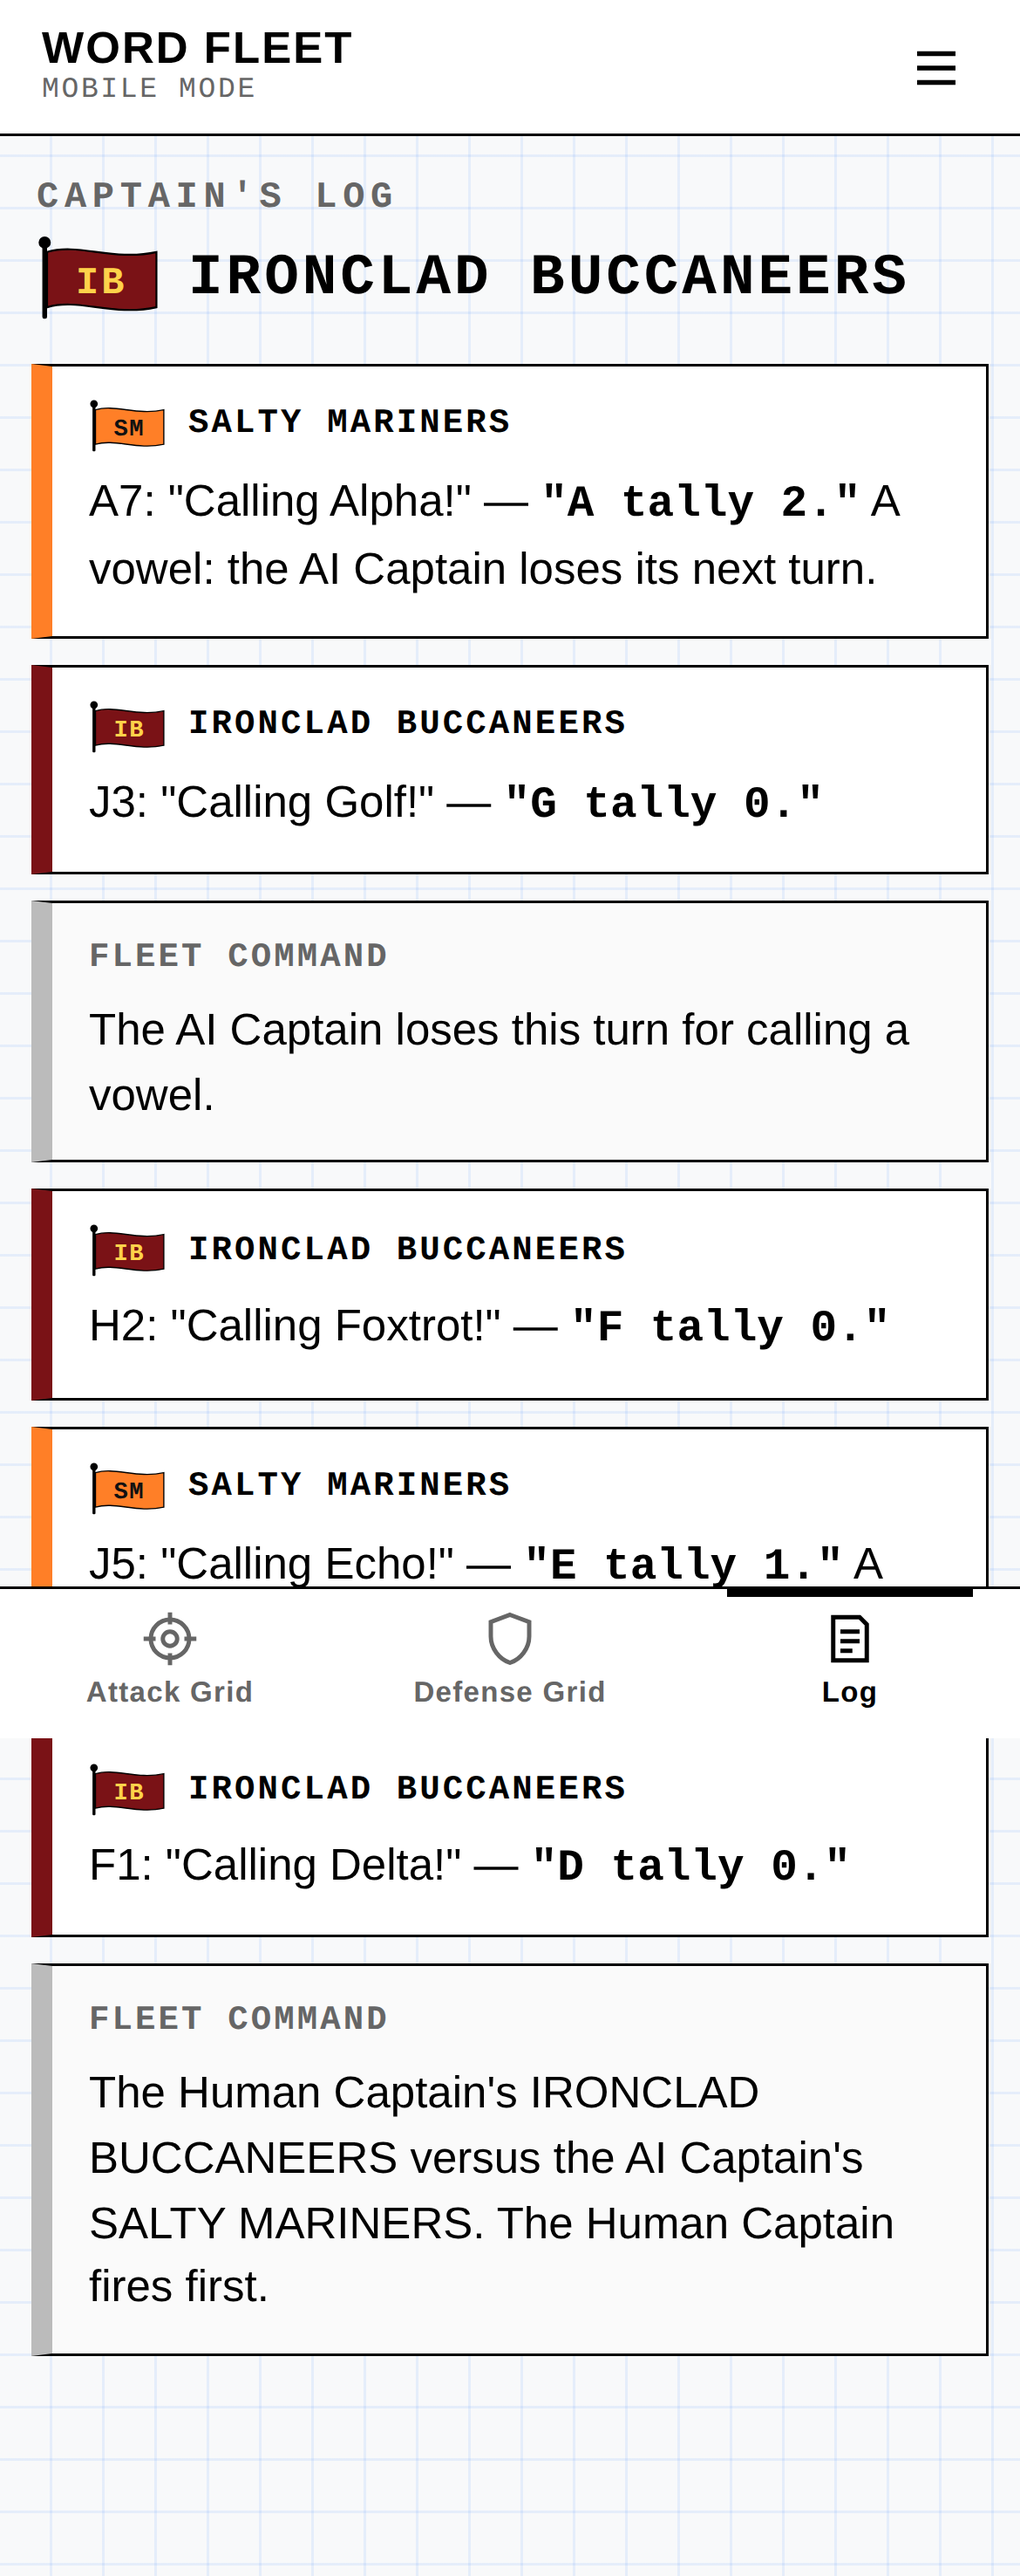
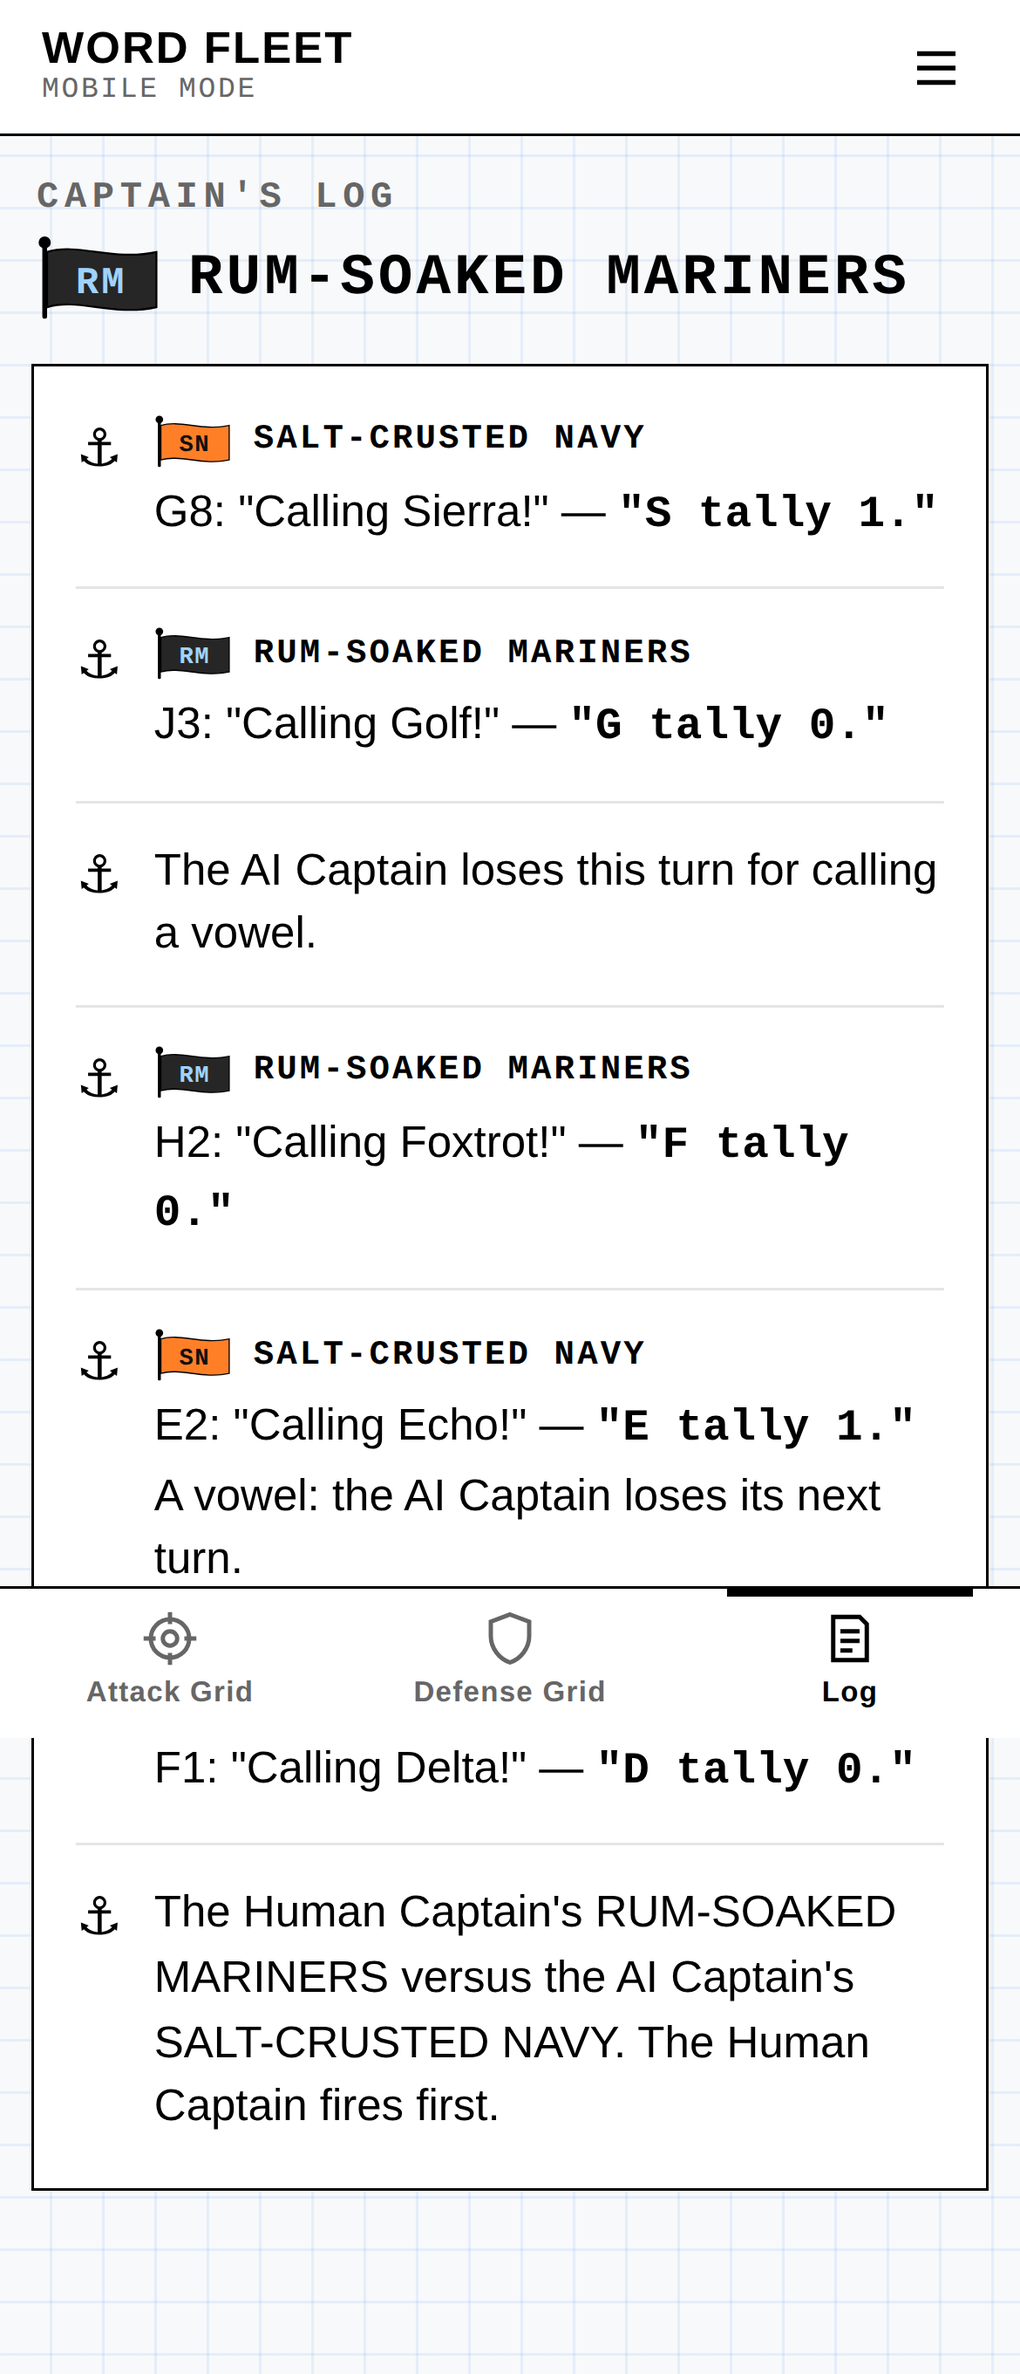
Log: plain list with an anchor bullet on every entry, no Fleet Command label, newest on top
Claude-Session: https://claude.ai/code/session_013sUGAAEC45a1EJCrQWVj9Q

diff --git a/mobile/app.js b/mobile/app.js
@@ -796,20 +796,19 @@
     return h;
   }
 
-  // 008-MOBILE-LOG: each entry is a card flying its side's flag. Yours in your fleet colors,
-  // the AI Captain's in Signal Orange & Black, Fleet Command plain. Newest first.
+  // 008-MOBILE-LOG: newest first, an anchor bullet on every entry. Your moves and the AI Captain's
+  // carry that side's flag and fleet name; Fleet Command notices are just the text.
   function renderLog() {
     renderFleetTags();
     var mine = schemeOf(S.colors);
     $('log').innerHTML = S.log.length ? S.log.map(function (l) {
-      var side = l.who === 'foe' ? 'is-foe' : l.who === 'me' ? 'is-me' : 'is-command';
-      var flag = l.who === 'foe' ? flagSvg(FOE_SCHEME, fleetInitials(S.foe.name) || 'AI')
-        : l.who === 'me' ? flagSvg(mine, fleetInitials(S.me.name) || 'WF') : '';
-      var who = l.who === 'foe' ? esc(S.foe.name) : l.who === 'me' ? esc(S.me.name) : 'Fleet Command';   // the flag says whose side
-      return '<div class="log-item ' + side + '"><div class="log-who">' + (flag ? '<span class="log-flag">' + flag + '</span>' : '') +
-        '<span>' + who + '</span></div><div class="log-text">' + l.text + '</div></div>';
+      var who = l.who === 'foe' ? '<span class="log-flag">' + flagSvg(FOE_SCHEME, fleetInitials(S.foe.name) || 'AI') + '</span>' + esc(S.foe.name)
+        : l.who === 'me' ? '<span class="log-flag">' + flagSvg(mine, fleetInitials(S.me.name) || 'WF') + '</span>' + esc(S.me.name) : '';
+      return '<div class="log-item"><span class="log-anchor" aria-hidden="true">\u2693\uFE0E</span><div class="log-body">' +
+        (who ? '<div class="log-who">' + who + '</div>' : '') + '<div class="log-text">' + l.text + '</div></div></div>';
     }).join('') : '<p class="log-empty">No letters called yet.</p>';
   }
+
 
 
   function switchTab(tab) {

diff --git a/mobile/app.css b/mobile/app.css
@@ -571,3 +571,12 @@ button.mf { font: inherit; color: var(--ink); width: 100%; padding: 3px 0 2px; c
 .log-flag svg { display: block; width: 100%; height: auto; }
 .log-text strong, .log-text b { font-family: var(--mono); }
 .log-empty { font-size: 17px; color: var(--muted); font-style: italic; }
+
+/* 008-MOBILE-LOG, simplified: a plain list, an anchor bullet on every entry, newest on top */
+.log { display: block; background: var(--paper); border: 1px solid var(--ink); padding: 4px 16px; }
+.log-item { display: flex; gap: 12px; align-items: flex-start; background: none; border: none; border-bottom: 1px solid var(--faint); padding: 14px 0; }
+.log-item:last-child { border-bottom: none; }
+.log-anchor { flex-shrink: 0; font-size: 20px; line-height: 1.3; color: var(--ink); }
+.log-body { flex: 1; min-width: 0; }
+.log-who { margin-bottom: 4px; }
+.log-anchor { font-family: "Segoe UI Symbol", "Noto Sans Symbols", "DejaVu Sans", sans-serif; font-variant-emoji: text; }

diff --git a/mobile/index.html b/mobile/index.html
@@ -18,7 +18,7 @@
   <link rel="preconnect" href="https://fonts.gstatic.com" crossorigin>
   <link href="https://fonts.googleapis.com/css2?family=Courier+Prime:wght@400;700&family=Inter:wght@400;500;600;700&display=swap" rel="stylesheet">
   <!-- Bump ?v= on every release (and CACHE in sw.js) so a new page never runs old code. -->
-  <link rel="stylesheet" href="app.css?v=89">
+  <link rel="stylesheet" href="app.css?v=91">
 </head>
 <body>
 
@@ -234,7 +234,7 @@
 
 <div class="toast" id="toast" hidden></div>
 
-<script src="audio.js?v=89"></script>
-<script src="app.js?v=89"></script>
+<script src="audio.js?v=91"></script>
+<script src="app.js?v=91"></script>
 </body>
 </html>

diff --git a/mobile/sw.js b/mobile/sw.js
@@ -1,11 +1,11 @@
 /* Word Fleet service worker: the whole game works offline once loaded. */
-var CACHE = 'wordfleet-v89';
+var CACHE = 'wordfleet-v91';
 var SHELL = [
   './',
   'index.html',
-  'app.css?v=89',
-  'app.js?v=89',
-  'audio.js?v=89',
+  'app.css?v=91',
+  'app.js?v=91',
+  'audio.js?v=91',
   'manifest.webmanifest',
   'icons/icon-180.png',
   'icons/icon-192.png',

diff --git a/mobile/screens/README.md b/mobile/screens/README.md
@@ -15,7 +15,7 @@ referred to by name when asking for changes. Each has a reference snapshot in th
 | **005-MOBILE-ATTACK** | `<div id="tabAttack" data-screen="005-MOBILE-ATTACK">` in `#scrBattle` | `005-mobile-attack.png` | Battle, Attack Grid tab (no turn chip in the header; whose turn it is shows in the panel): banner in the AI Captain's Signal Orange & Black with the five ship circles, the Attack Grid, the Attack Manifest, and the panel below (your turn, the result of your call with Solve a Word and End Turn, or "AI Captain is choosing a square"). |
 | **006-MOBILE-CALL-LETTER** | sheet, `data-screen="006-MOBILE-CALL-LETTER"` | `006-mobile-call-letter.png` | Opens when you tap a hidden square: pick a letter to call (vowels marked −1 turn), or Cancel. |
 | **007-MOBILE-DEFENSE** | `<div id="tabDefense" data-screen="007-MOBILE-DEFENSE">` | `007-mobile-defense.png` | Battle, Defense Grid tab: banner in your fleet colors with your fleet name; incoming report, your fleet with the AI Captain's picks, the Defense Manifest. |
-| **008-MOBILE-LOG** | `<div id="tabLog" data-screen="008-MOBILE-LOG">` | `008-mobile-log.png` | Battle, Log tab: small "CAPTAIN'S LOG" then your flag and fleet name, as on the Prepare screens. Below, newest first, every entry is a card flying its side's flag and fleet name: yours with a stripe in your fleet colors, the AI Captain's in Signal Orange, Fleet Command plain grey. Prepare-sized text. |
+| **008-MOBILE-LOG** | `<div id="tabLog" data-screen="008-MOBILE-LOG">` | `008-mobile-log.png` | Battle, Log tab: small "CAPTAIN'S LOG" then your flag and fleet name, as on the Prepare screens. Below, newest on top, a plain list with an ⚓ bullet on every entry; your moves and the AI Captain's show that side's flag and fleet name, Fleet Command notices are just the text. |
 | **009-MOBILE-SURRENDER** | Attack panel in Demand Surrender mode, `data-screen="009-MOBILE-SURRENDER"` | `009-mobile-surrender.png` | Name every AI word-ship, its first square and heading; "I Demand Your Surrender!" asks once more before it counts. |
 | **010-MOBILE-GAME-OVER** | `<section id="scrOver" data-screen="010-MOBILE-GAME-OVER">`, `SCREENS.over` | `010-mobile-game-over.png` | Result (no chip in the header), stats, New Battle, and both fleets revealed, each with its flag: the AI Captain's fixed Signal Orange & Black (`FOE_SCHEME`, bright background with dark text, the reverse of every player scheme) and yours in your scheme. |
 | **MOBILE-MENU** *(any screen)* | sheet, `data-screen="MOBILE-MENU"` | `mobile-menu.png` | The ☰ menu: New Battle, Rules of Engagement, Home Port, By The Game Bureau, Abandon Battle, Sound Effects and Music switches. |
